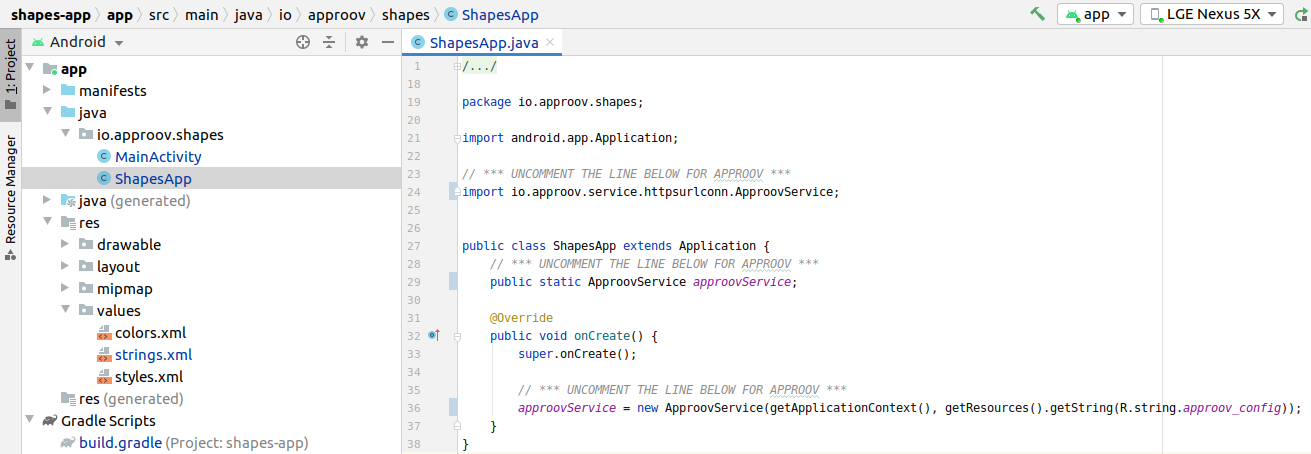
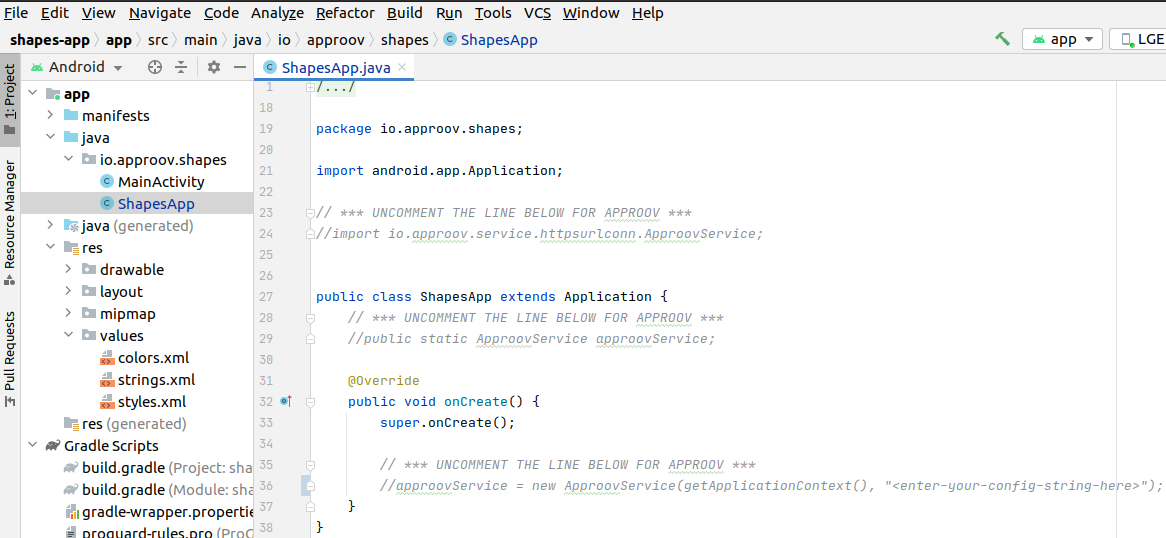
Change to use short init string

diff --git a/shapes-app/app/src/main/java/io/approov/shapes/ShapesApp.java b/shapes-app/app/src/main/java/io/approov/shapes/ShapesApp.java
@@ -33,6 +33,6 @@ public class ShapesApp extends Application {
         super.onCreate();
 
         // *** UNCOMMENT THE LINE BELOW FOR APPROOV ***
-        //approovService = new ApproovService(getApplicationContext(), getResources().getString(R.string.approov_config));
+        //approovService = new ApproovService(getApplicationContext(), "<enter-your-config-string-here>");
     }
 }

diff --git a/README.md b/README.md
@@ -2,6 +2,10 @@
 
 This quickstart is written specifically for native Android apps that are written in Java and use [`HttpsUrlConnection`](https://developer.android.com/reference/javax/net/ssl/HttpsURLConnection) for making the API calls that you wish to protect with Approov. If this is not your situation then check if there is a more relevant Quickstart guide available.
 
+This quickstart provides a step-by-step example of integrating Approov into an app using a simple `Shapes` example that shows a geometric shape based on a request to an API backend that can be protected with Approov.
+
+It is also possible to use Approov in `Discovery` mode to perform an initial assessment of your app user base and whether there are requests being made to your backend API that are not coming from your mobile apps. This mode allows a simpler initial integration. If you wish to implement this first then follow the steps [here](https://github.com/approov/approov-service-httpsurlconn) up to and including the `Discovery Mode` section.
+
 ## WHAT YOU WILL NEED
 * Access to a trial or paid Approov account
 * The `approov` command line tool [installed](https://approov.io/docs/latest/approov-installation/) with access to your account
@@ -66,6 +70,8 @@ implementation 'com.github.approov:approov-service-httpsurlconn:main-x.y.z'
 
 You can see the latest in the `README` at [`approov-service-httpsurlconn`](https://github.com/approov/approov-service-httpsurlconn).
 
+Make sure you do a Gradle sync (by selecting `Sync Now` in the banner at the top of the modified `.gradle` file) after making these changes.
+
 Note that `approov-service-httpsurlconn` is actually an open source wrapper layer that allows you to easily use Approov with `HttpsUrlConnection`. This has a further dependency to the closed source Approov SDK itself.
 
 ## ENSURE THE SHAPES API IS ADDED
@@ -76,18 +82,6 @@ approov api -add shapes.approov.io
 ```
 Tokens for this domain will be automatically signed with the specific secret for this domain, rather than the normal one for your account.
 
-## SETUP YOUR APPROOV CONFIGURATION
-
-The Approov SDK needs a configuration string to identify the account associated with the app. Obtain it using:
-```
-approov sdk -getConfig initial-config.txt
-```
-Copy and paste the `initial-config.txt` file content into a new created `approov_config` string resource entry as shown (the actual entry will be much longer than shown).
-
-![Initial Config String](readme-images/initial-config.png)
-
-The app reads this string to initialize the Approov SDK.
-
 ## MODIFY THE APP TO USE APPROOV
 
 Uncomment the three lines of Approov initialization code in `io/approov/shapes/ShapesApp.java`:
@@ -95,6 +89,13 @@ Uncomment the three lines of Approov initialization code in `io/approov/shapes/S
 ![Approov Initialization](readme-images/approov-init-code.png)
 
 This initializes Approov when the app is first created. It uses the configuration string we set earlier. A `public static` member allows other parts of the app to access the singleton Approov instance. All calls to `ApproovService` and the SDK itself are thread safe.
+
+The Approov SDK needs a configuration string to identify the account associated with the app. Obtain it using:
+
+```
+approov sdk -getConfigString
+```
+This will output a configuration string, something like `#123456#K/XPlLtfcwnWkzv99Wj5VmAxo4CrU267J1KlQyoz8Qo=`, that will identify your Approov account. Copy this into `io/approov/shapes/ShapesApp.java:36`, replacing the text `<enter-your-config-string-here>`.
 
 Next we need to use Approov when we make request for the shapes. Only a single line of code needs to be changed at `io/approov/shapes/MainActivity.java:208`:
 
